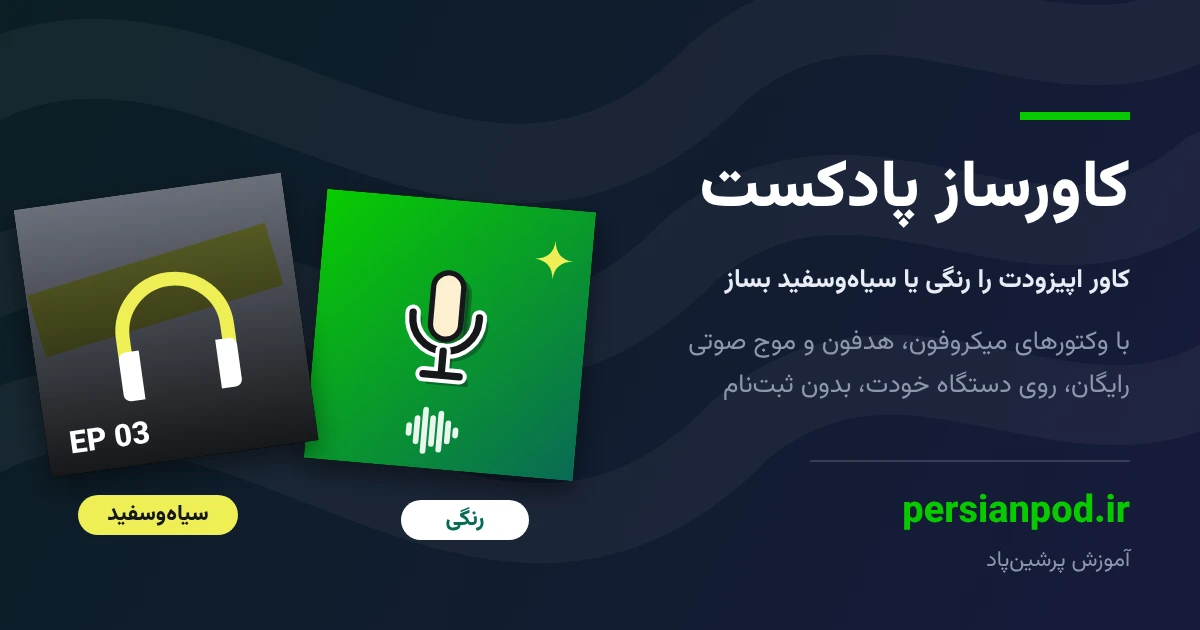
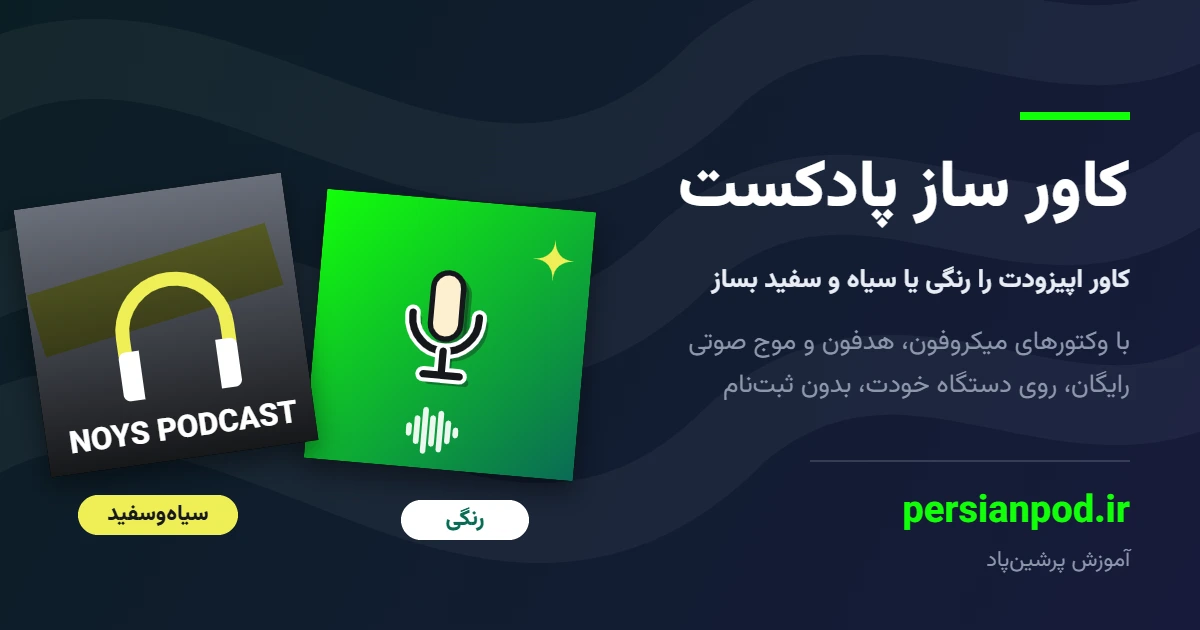
podcast-cover-maker-post

diff --git a/_learn/podcast-cover-maker.md b/_learn/podcast-cover-maker.md
@@ -1,0 +1,89 @@
+---
+layout: post
+title: "کاورساز پادکست؛ ابزار رایگان ساخت کاور سری و اپیزود"
+description: "کاورساز پادکست یک ابزار رایگان و فارسی برای ساخت کاور پادکست است؛ بدون نصب برنامه، روی موبایل راحت، آفلاین و بدون اینترنت. دو حالت رنگی و سیاهوسفید، وکتورهای آمادهی پادکست، قلمموی رنگی و خروجی مربع ۳۰۰۰×۳۰۰۰."
+date: 2026-11-15
+categories: [آموزش]
+tags: [کاور پادکست, طراحی, ابزار رایگان]
+image: /assets/img/learn/podcast-cover-site.webp
+---
+
+![کاورساز پادکست](/assets/img/tools/podcast-cover-site.webp)
+
+## کاورساز پادکست چیست؟
+
+یک صفحهی ساده و فارسی که کمک میکند برای پادکستتان **کاور حرفهای** بسازید: عکس را بگذارید، اسم پادکست و عنوان اپیزود را بنویسید، رنگ و وکتور را انتخاب کنید و خروجی را دانلود کنید. بدون نصب برنامه، بدون ثبتنام و بدون هزینه.
+
+[باز کردن کاورساز پادکست](/tools/podcast-cover-maker.html)
+
+## چرا این ابزار را ساختیم؟
+
+ساختن کاور برای هر اپیزود کار تکراری و وقتگیری است، و خیلی از ما همیشه پشت یک کامپیوتر مجهز نیستیم. این ابزار برای همین موقعیتها ساخته شد:
+
+- **وقتی فقط گوشی دارید.** خیلی از پادکسترها بیشتر کارشان را روی موبایل انجام میدهند. این صفحه برای گوشی طراحی شده: پیشنمایش کاور بالای صفحه میماند، دکمهی دانلود همیشه پایین صفحه است و برای ساختن کاور لازم نیست برنامهای نصب کنید.
+- **وقتی در سفر هستید.** سر قرار ضبط، در مسافرت یا بیرون از خانه به نرمافزارهای سنگین طراحی دسترسی ندارید، ولی اپیزود باید همان روز منتشر شود. با این ابزار در چند دقیقه کاور آماده است.
+- **وقتی اینترنت قطع است.** ابزارهای آنلاین طراحی بدون اینترنت از کار میافتند یا کند میشوند. اینجا فونت وزیرمتن داخل خود صفحه گنجانده شده و همهی کارها روی دستگاه خودتان انجام میشود. صفحه را یک بار ذخیره کنید تا هر وقت خواستید، حتی بدون اینترنت، باز شود.
+- **وقتی میخواهید همهی اپیزودها یکشکل باشند.** کاورهای یک سری باید یک هویت داشته باشند. تنظیمات ذخیره میشود و برای اپیزود بعد فقط شماره و عکس را عوض میکنید.
+- **وقتی نمیخواهید عکسهایتان جایی آپلود شود.** هیچ فایلی به سرور فرستاده نمیشود و عکسها از دستگاهتان بیرون نمیروند.
+
+## به چه کاری میآید؟
+
+- ساختن **کاور اصلی پادکست** (مربع، تا ۳۰۰۰×۳۰۰۰ پیکسل).
+- ساختن **کاور هر اپیزود** با شمارهی اپیزود (مثلاً `EP 03`) که هر قسمت شکل و شمایل یکدست داشته باشد.
+- گرفتن دو نسخهی رنگی و سیاهوسفید از یک طرح، با یک کلیک.
+- ساختن **کاور یوتیوب** (۱۲۸۰×۷۲۰)، **استوری اینستاگرام** و **کاور ریلز** (۱۰۸۰×۱۹۲۰) و پست مربع و عمودی؛ برای استوری و ریلز، ناحیهی امن هم روی پیشنمایش نشان داده میشود و متنها خودکار بیرون از آن مینشینند.
+
+## امکانات
+
+**دو حالت: رنگی و سیاهوسفید.** با یک کلید بین دو حالت عوض میکنید. در حالت سیاهوسفید عکس خاکستری میشود. دو «ظاهر» ذخیره میشود و دکمهی «دانلود هر دو نسخه» هر دو را یکجا میدهد.
+
+**قلمموی رنگی.** عکس را سیاهوسفید نگه دارید و فقط هر بخش را که میخواهید با قلمموی نرم رنگی کنید، مثل کاورهای نویز | NOYS. سه حالت دارد: رنگ دلخواه درخشان، رنگ دلخواه طبیعی، و رنگ اصلی خود عکس. اندازه، نرمی لبه و غلظت قلم قابل تنظیم است و رنگ پیشفرض قلم زرد (`#FFF200`) است.
+
+**رنگ نوشتهها.** رنگ عنوان، خط کوچک و `EP` را جدا جدا تغییر دهید، یا با یک کلیک روی دایرههای رنگی هر سه را یکی کنید. سایهی متن و تیرگی پایین عکس هم برای خوانایی بیشتر قابل تنظیم است.
+
+**وکتورهای مخصوص پادکست.** ۱۵ شکل آماده: میکروفون، هدفون، موج صوتی، نماد پادکست، دکمهی ضبط، دکمهی پخش، پخش زنده، میکسر، حباب گفتگو، نت موسیقی، درخشش، قلب، رعد، بلندگو و ستاره. هر کدام را میشود:
+
+- با ماوس یا انگشت جابهجا کرد و با چرخ ماوس بزرگ و کوچک کرد،
+- چرخاند، آینه کرد و شفافیتش را تنظیم کرد،
+- در سه سبک ساخت: **توپر**، **خطی** و **کاشی** (مثل آیکون اپ)،
+- با هر رنگی که دوست دارید رنگ کرد.
+
+**لوگو و فونت خودتان.** لوگوی PNG شفاف و فایل فونت دلخواه را یک بار بارگذاری کنید؛ دفعهی بعد خودکار میآید. فونت پیشفرض وزیرمتن است و داخل خود صفحه قرار دارد.
+
+**خروجی مناسب پلتفرمها.** کاور پادکست، کاور یوتیوب، استوری، کاور ریلز و پست اینستاگرام را با یک کلیک از «حالت آماده» انتخاب کنید. فرمت JPG، PNG و WebP، با سه سطح حجم فایل (فوق سبک، سبک و باکیفیت، کیفیت بالاتر)، و امکان کپی مستقیم در کلیپبورد.
+
+## قدمبهقدم
+
+1. صفحه را باز کنید و در بخش «متن» اسم پادکست و عنوان اپیزود را بنویسید. کادرهای راهنمای کمرنگ نشان میدهند هر چیز کجا مینشیند.
+2. عکستان را بکشید و در کادر بیندازید (یا کلیک کنید، یا `Ctrl+V` بزنید؛ روی موبایل فقط روی کادر بزنید).
+3. بالای صفحه حالت **رنگی** یا **سیاهوسفید** را انتخاب کنید. اگر خواستید بعضی بخشها را با قلمموی رنگی رنگ کنید.
+4. رنگ نوشتهها را تنظیم کنید.
+5. از بخش «آیکونهای پادکست» یک یا چند شکل اضافه کنید و جایش را روی کاور تنظیم کنید.
+6. در صورت نیاز لوگو و فونت خودتان را بگذارید.
+7. اندازه را روی ۳۰۰۰×۳۰۰۰ بگذارید و دانلود کنید.
+
+## چند نکته برای کاور بهتر
+
+- کاور پادکست در فهرست برنامهها خیلی کوچک دیده میشود. عنوان را کوتاه و درشت نگه دارید و کاور را از فاصلهی دور هم نگاه کنید.
+- بین نوشته و عکس تضاد کافی بگذارید. اگر عکس شلوغ است، تیرگی پایین عکس را بیشتر کنید.
+- اپل پادکست کاور مربع بین ۱۴۰۰ تا ۳۰۰۰ پیکسل میخواهد (JPG یا PNG). همان ۳۰۰۰×۳۰۰۰ امنترین انتخاب است.
+- یک وکتور یا دو تا کافی است؛ کاور شلوغ در اندازهی کوچک خوانده نمیشود.
+- برای یکدستی سری، همهی اپیزودها را با همان حالت و همان فونت بسازید و فقط شماره و عکس را عوض کنید (دکمهی «اپیزود بعدی» همین کار را میکند).
+
+## پرسشهای پرتکرار
+
+**عکس من جایی آپلود میشود؟** نه. همهی کارها در مرورگر خودتان انجام میشود و عکسها از دستگاهتان بیرون نمیروند.
+
+**تنظیمات ذخیره میشود؟** بله، در همان مرورگر. دفعهی بعد که صفحه را باز کنید، لوگو، فونت و تنظیمات قبلی سر جایشان هستند.
+
+**روی موبایل کار میکند؟** بله، و برای همین هم ساخته شده. روی موبایل و تبلت پیشنمایش کاور بالای صفحه شناور میماند و با اسکرول از دید خارج نمیشود، تا هر تغییر را همان لحظه ببینید. دکمهی دانلود هم همیشه پایین صفحه است.
+
+**بدون اینترنت کار میکند؟** بله. فونت وزیرمتن داخل خود صفحه گنجانده شده است. صفحه را یک بار ذخیره کنید (Ctrl+S) تا هر وقت خواستید بدون اینترنت باز شود.
+
+**فونت فارسی چطور است؟** وزیرمتن داخل صفحه است. اگر فونت دیگری میخواهید، فایل فونت خودتان را بارگذاری کنید.
+
+---
+
+این ابزار را با عشق و علاقه و احترام برای پادکسترهای عزیز ساختهام؛ صدای شما شنیدنیست، کاورتان دیدنیست ❤
+
+*ساختهشده توسط [نویز](https://noysdc.ir) برای جامعهی پادکسترهای فارسیزبان.*
